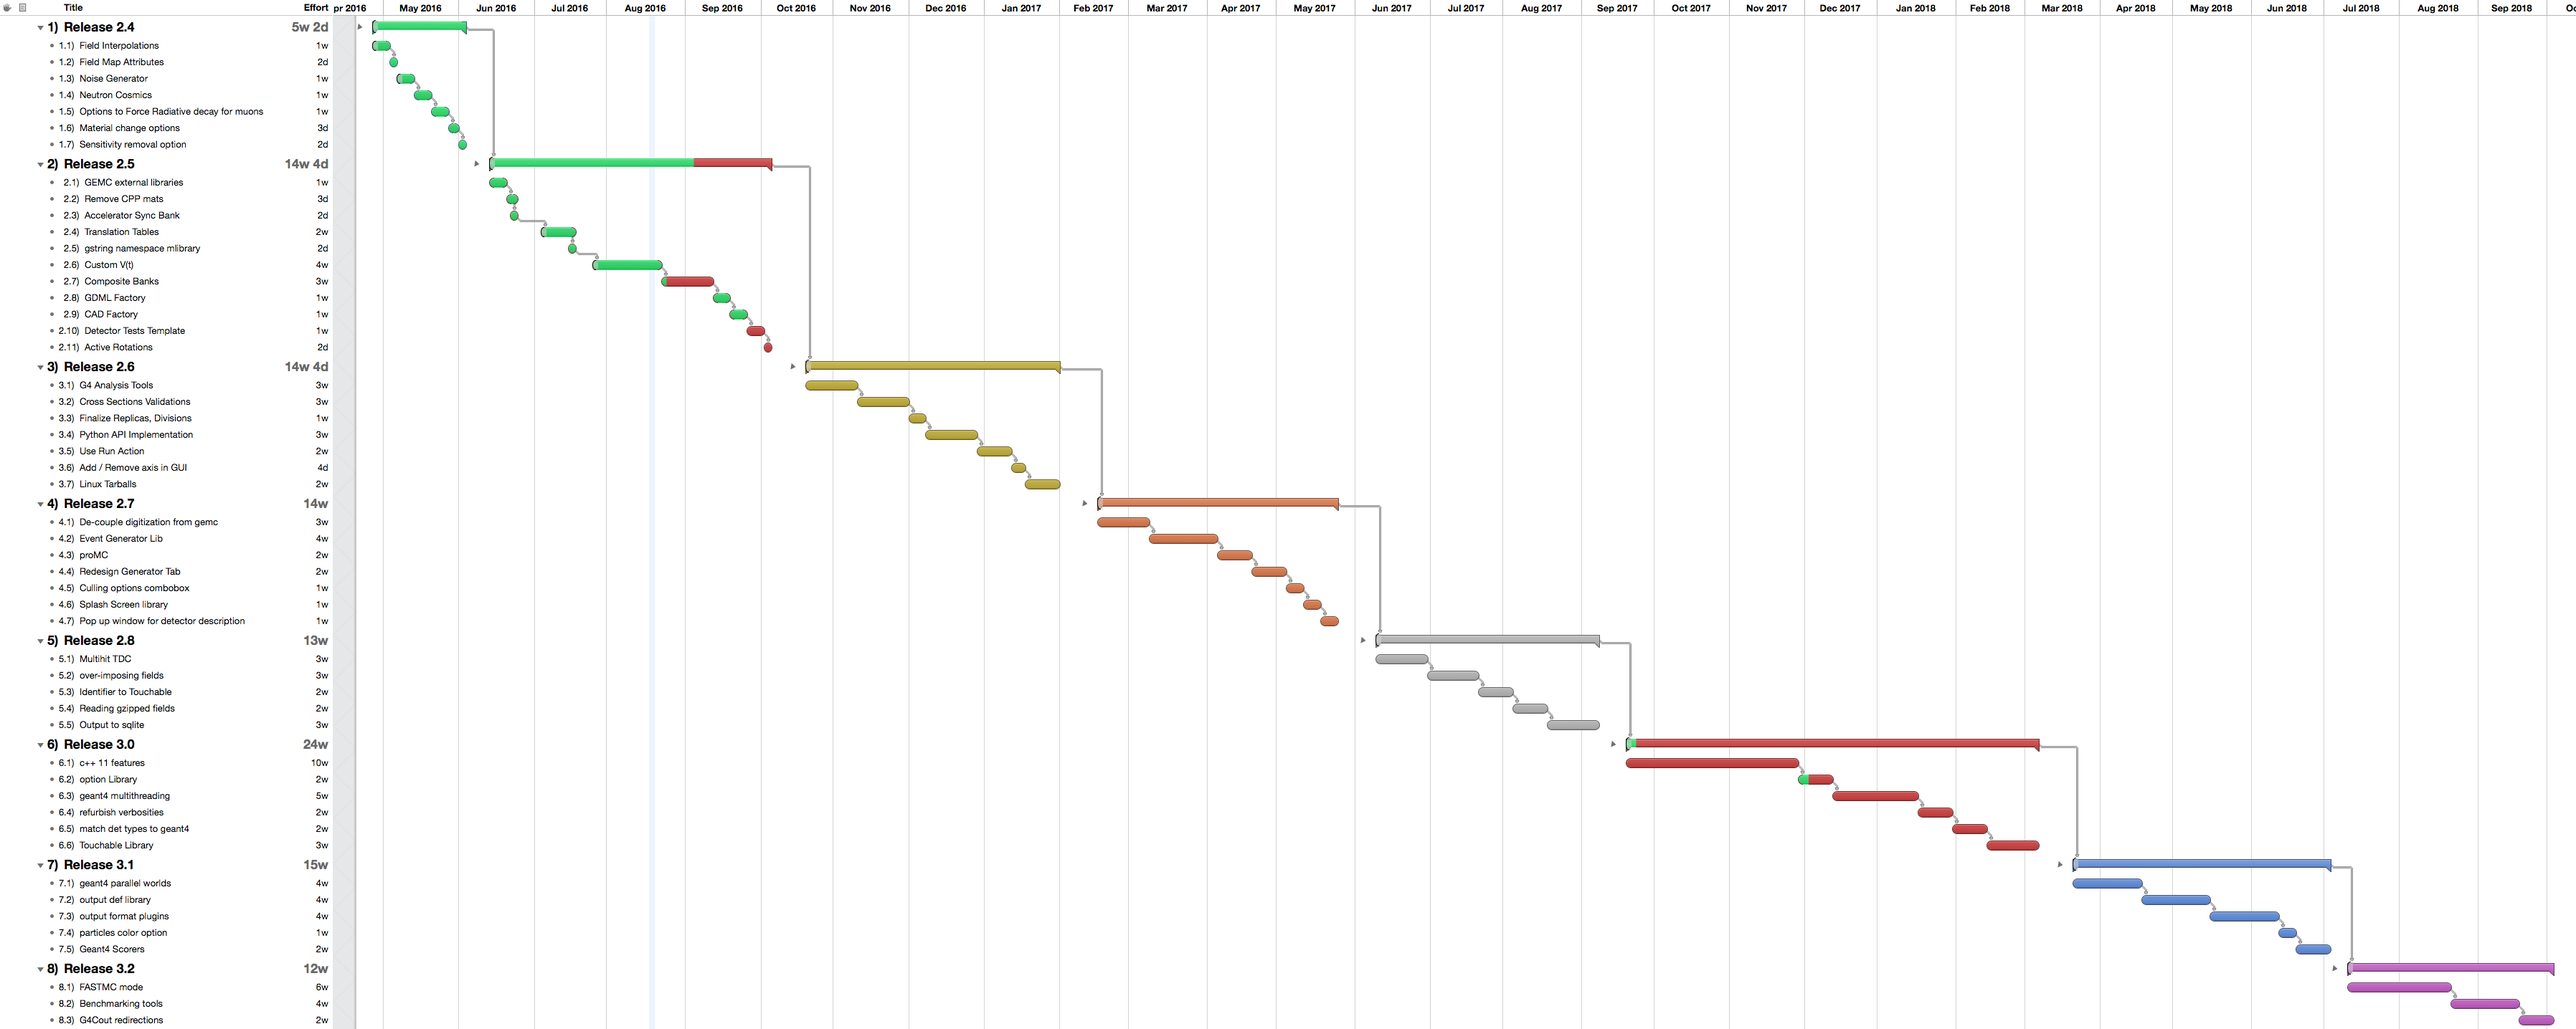
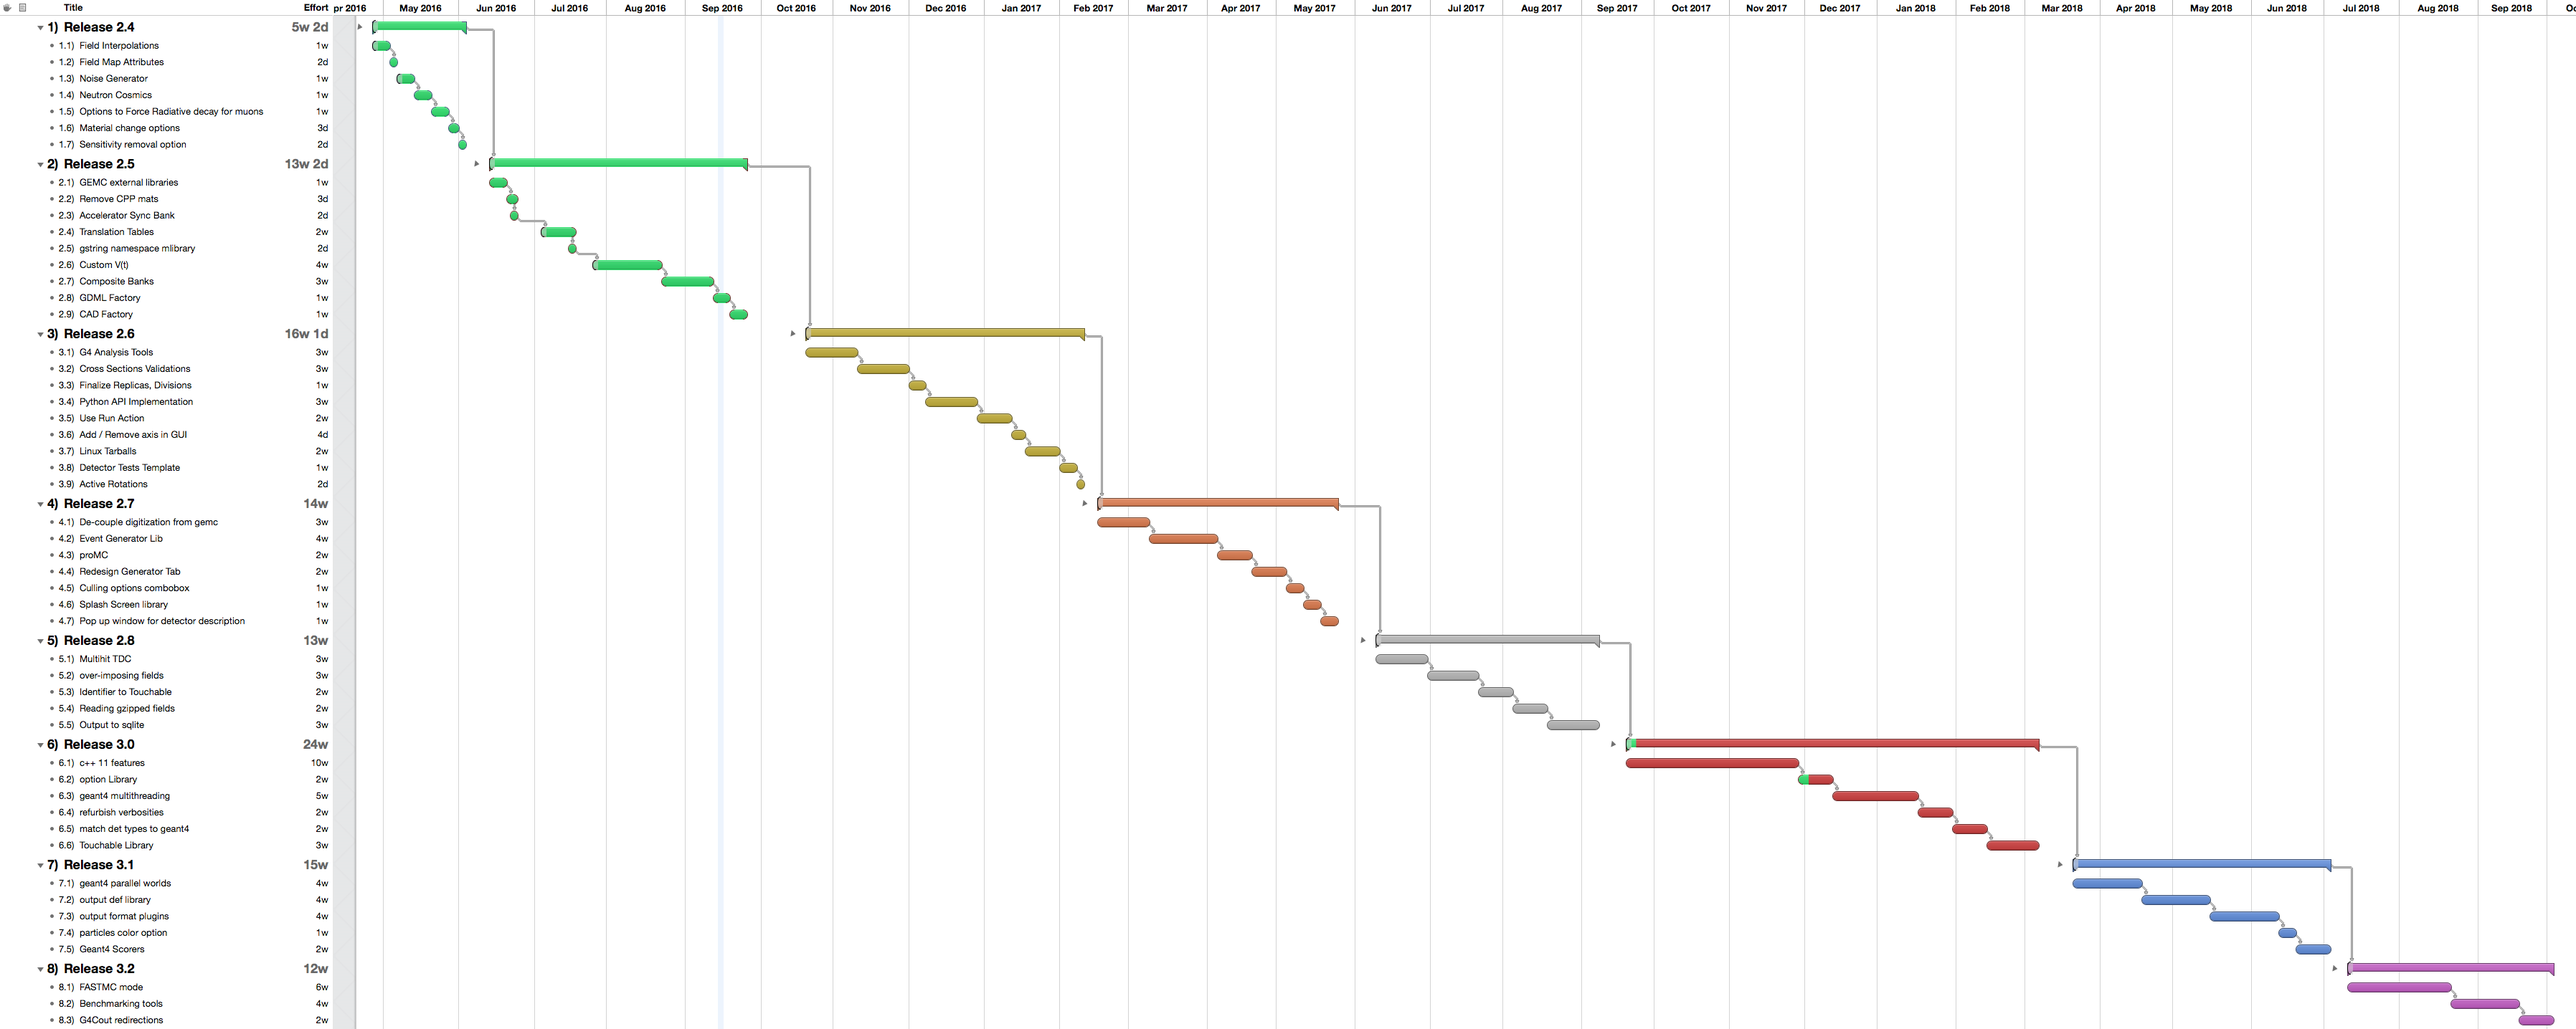
2.5 completion

diff --git a/webPage/source/documentation/hitDefinition.rst b/webPage/source/documentation/hitDefinition.rst
@@ -194,31 +194,34 @@ table below.
    photon-Nuclear            7
    electron-Nuclear          8
    positron-Nuclear          9
-   Hadronic Elastic          10
-   Proton Inelastic          11
-   Neutron Inelastic         12
-   pi- Inelastic             13
-   pi+ Inelastic             14
-   hadron ionization         15
-   neutron capture           16
-   decay                     17
-   muon ionization           18
-   Coulomb Scattering        19
-   Cherenkov                 20
-   deuteron Inelastic        21
-   muPairProd                22
-   ion ionization            23
-   hadron pair production    24
-   triton Inelastic          25
-   kaon- Inelastic           26
-   kaon+ Inelastic           27
-   kaon0 Inelastic           28
-   kaon0L Inelastic          29
-   alpha Inelastic           30
-   lambda Inelastic          31
-   sigma- Inelastic          32
-   hadronic bremsstrahlung   33
-   muon decay With Spin      34
+   Coulomb Scattering        10
+   Cherenkov                 11
+   Hadronic Elastic          20
+   Hadronic bremsstrahlung   21
+   Hadron ionization         22
+   Hadron pair production    23
+   Proton Inelastic          30
+   Neutron Inelastic         31
+   Neutron capture           32
+   pi- Inelastic             40
+   pi+ Inelastic             41
+   Decay                     50
+   Decay With Spin           51
+   muon ionization           60
+   muon pair production      61
+   muon bremsstrahlung       62
+   muon nuclear              63
+   kaon- Inelastic           70
+   kaon+ Inelastic           71
+   kaon0 Inelastic           72
+   kaon0L Inelastic          73
+   kaon0S Inelastic          74
+   alpha Inelastic           80
+   lambda Inelastic          90
+   sigma- Inelastic          100
+   deuteron Inelastic        110
+   ion ionization            120
+   triton Inelastic          130
    na                        90
    =======================  =========
 

diff --git a/webPage/source/documentation/releases/roadmap.rst b/webPage/source/documentation/releases/roadmap.rst
@@ -50,20 +50,17 @@ GEMC 2.5 - September 2016
 - gstring namespace library ✅
 
 - **Custom V(t)**: ✅
-   A user-defined **chargeTime** routine produces charge and time information
-   for each geant4 step.
 
-  A user-defined **voltage** function produces a voltage value for a given asked time
+    - A user-defined **chargeTime** routine produces charge and time information
+      for each geant4 step ✅
 
-- Output format to match the composite banks of the JLab data acquisition group.
+    - A user-defined **voltage** function produces a voltage value for a given asked time ✅
+
+- Output format to match the FADC composite banks of the JLab data acquisition group. ✅
 
 - GDML factory ✅
 
 - CAD factory ✅
-
-- Test Template for individual detectors.
-
-- Add physical volume constructor - active rotations.
 
 
 GEMC 2.6 - January 2017
@@ -77,11 +74,14 @@ GEMC 2.6 - January 2017
 
 - **Python API** implementation.
 
-- Use Run Action.
-
 - Add / Remove axis in GUI
 
 - Linux Tarballs.
+
+- Test Template for individual detectors.
+
+- Add physical volume constructor - active rotations.
+
 
 
 GEMC 2.7 - April 2017
@@ -118,6 +118,7 @@ GEMC 2.8 - June 2017
 
 - API to sqlite
 
+
 GEMC 3.0 - October 2017
 -----------------------
 
@@ -132,6 +133,8 @@ GEMC 3.0 - October 2017
 - Match detector types to geant4.
 
 - Touchable library: contains vector<identifier>. Optimize with no string operations?
+
+- Use Run Action.
 
 
 GEMC 3.1 - January 2018
